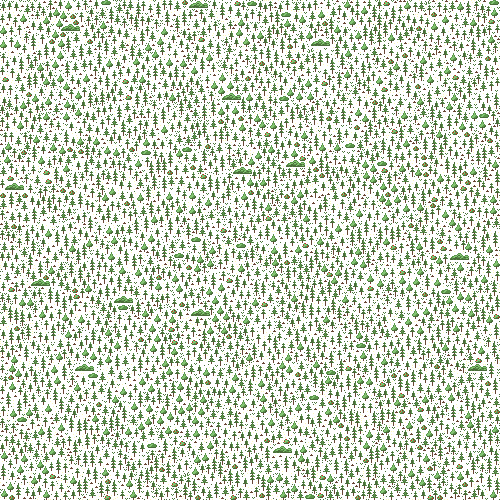
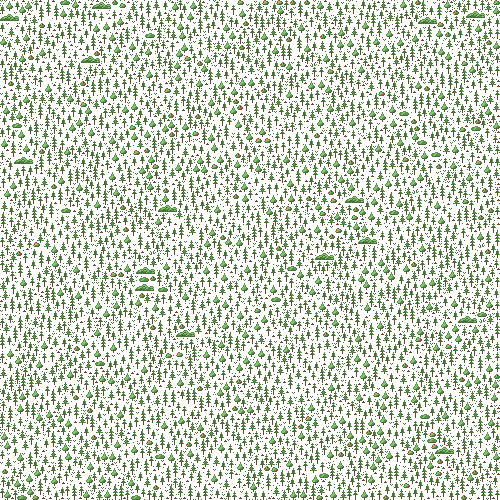
Alg update

diff --git a/generate_pattern.py b/generate_pattern.py
@@ -77,10 +77,13 @@ def create_occupancy_mask(width, height):
     return np.zeros((height, width), dtype=bool)
 
 
-def _get_alpha_mask(img):
-    """Extract alpha channel as a boolean NumPy array (True where opaque)."""
-    alpha = np.array(img.split()[-1])
-    return alpha > 0
+def _get_alpha_mask(img, _cache={}):
+    """Extract alpha channel as a boolean NumPy array (True where opaque). Cached per image."""
+    img_id = id(img)
+    if img_id not in _cache:
+        alpha = np.array(img.split()[-1])
+        _cache[img_id] = alpha > 0
+    return _cache[img_id]
 
 
 def mark_occupied(mask, x, y, img, spacing):
@@ -90,22 +93,27 @@ def mark_occupied(mask, x, y, img, spacing):
 
     alpha_mask = _get_alpha_mask(img)
 
-    # Create a structuring element for dilation (spacing buffer)
     if spacing > 0:
+        # Pad the alpha mask so dilation can expand beyond the image bounds
+        padded = np.pad(alpha_mask, spacing, mode='constant', constant_values=False)
         dilation_size = 2 * spacing + 1
         struct = np.ones((dilation_size, dilation_size), dtype=bool)
-        expanded = binary_dilation(alpha_mask, structure=struct)
+        expanded = binary_dilation(padded, structure=struct)
     else:
         expanded = alpha_mask
 
-    # Compute the region on the occupancy mask that this expanded image covers
-    eh, ew = expanded.shape
-    src_y0 = max(0, -y + spacing if spacing > 0 else 0)
-    src_x0 = max(0, -x + spacing if spacing > 0 else 0)
-    dst_y0 = max(0, y - spacing if spacing > 0 else y)
-    dst_x0 = max(0, x - spacing if spacing > 0 else x)
-    dst_y1 = min(mask_h, dst_y0 + eh - src_y0)
-    dst_x1 = min(mask_w, dst_x0 + ew - src_x0)
+    # The expanded mask's top-left corresponds to (x - spacing, y - spacing) on canvas
+    exp_h, exp_w = expanded.shape
+    origin_y = y - spacing if spacing > 0 else y
+    origin_x = x - spacing if spacing > 0 else x
+
+    # Clip to canvas bounds
+    src_y0 = max(0, -origin_y)
+    src_x0 = max(0, -origin_x)
+    dst_y0 = max(0, origin_y)
+    dst_x0 = max(0, origin_x)
+    dst_y1 = min(mask_h, origin_y + exp_h)
+    dst_x1 = min(mask_w, origin_x + exp_w)
     copy_h = dst_y1 - dst_y0
     copy_w = dst_x1 - dst_x0
 
@@ -129,19 +137,77 @@ def can_place_image(mask, x, y, img):
     return not np.any(region & alpha_mask)
 
 
-def try_place_image(canvas_w, canvas_h, img, mask):
+CELL_SIZE = 32  # coarse grid cell size in pixels
+
+
+def _build_coarse_grid(mask):
+    """Build a coarse grid indicating which cells have ANY free space."""
+    h, w = mask.shape
+    rows = (h + CELL_SIZE - 1) // CELL_SIZE
+    cols = (w + CELL_SIZE - 1) // CELL_SIZE
+    grid = np.ones((rows, cols), dtype=bool)  # True = has free space
+    for r in range(rows):
+        for c in range(cols):
+            block = mask[r * CELL_SIZE:(r + 1) * CELL_SIZE, c * CELL_SIZE:(c + 1) * CELL_SIZE]
+            if block.all():  # fully occupied
+                grid[r, c] = False
+    return grid
+
+
+def _update_coarse_grid(grid, mask, x, y, w, h, spacing):
+    """Update coarse grid cells affected by a newly placed image."""
+    r0 = max(0, (y - spacing) // CELL_SIZE)
+    c0 = max(0, (x - spacing) // CELL_SIZE)
+    r1 = min(grid.shape[0], (y + h + spacing) // CELL_SIZE + 1)
+    c1 = min(grid.shape[1], (x + w + spacing) // CELL_SIZE + 1)
+    mask_h, mask_w = mask.shape
+    for r in range(r0, r1):
+        for c in range(c0, c1):
+            block = mask[r * CELL_SIZE:min((r + 1) * CELL_SIZE, mask_h),
+                         c * CELL_SIZE:min((c + 1) * CELL_SIZE, mask_w)]
+            if block.all():
+                grid[r, c] = False
+
+
+def try_place_image(canvas_w, canvas_h, img, mask, coarse_grid):
     """
     Try to find a random position where the image's non-transparent pixels
-    don't overlap with already-occupied pixels. Returns (x, y) or None.
+    don't overlap with already-occupied pixels.
+    Uses coarse grid to focus searches on free areas.
+    Returns (x, y) or None.
     """
     img_w, img_h = img.size
-    max_attempts = 1000
-    for _ in range(max_attempts):
-        x = random.randint(0, max(0, canvas_w - img_w))
-        y = random.randint(0, max(0, canvas_h - img_h))
+    max_x = max(0, canvas_w - img_w)
+    max_y = max(0, canvas_h - img_h)
+    if max_x == 0 and max_y == 0:
+        if can_place_image(mask, 0, 0, img):
+            return (0, 0)
+        return None
 
-        if can_place_image(mask, x, y, img):
-            return (x, y)
+    # Find coarse-grid cells that have free space and could fit the image
+    free_cells = np.argwhere(coarse_grid)
+    if len(free_cells) == 0:
+        return None
+
+    # Batch: generate many candidate positions at once in free cells
+    batch_size = 64
+    max_rounds = 16  # 64 * 16 = 1024 total attempts max
+
+    for _ in range(max_rounds):
+        # Pick random free cells
+        cell_indices = np.random.randint(0, len(free_cells), size=batch_size)
+        cells = free_cells[cell_indices]
+
+        # Generate random offsets within each cell
+        offsets_y = np.random.randint(0, CELL_SIZE, size=batch_size)
+        offsets_x = np.random.randint(0, CELL_SIZE, size=batch_size)
+
+        xs = np.clip(cells[:, 1] * CELL_SIZE + offsets_x, 0, max_x).astype(int)
+        ys = np.clip(cells[:, 0] * CELL_SIZE + offsets_y, 0, max_y).astype(int)
+
+        for i in range(batch_size):
+            if can_place_image(mask, int(xs[i]), int(ys[i]), img):
+                return (int(xs[i]), int(ys[i]))
 
     return None
 
@@ -278,16 +344,80 @@ def _place_images(
     max_total_attempts = target_images * 10
     repeat_counts = {}
 
-    # Build a flat list of all images (with priority weight applied),
-    # shuffle it, and cycle through in order so every image is tried
-    # before any repeats.
+    # Build coarse grid for fast free-space lookup
+    coarse_grid = _build_coarse_grid(occupancy)
+
+    # Compute opaque pixel count for sorting (cached via _get_alpha_mask)
+    def _sort_key(item):
+        _, img = item
+        return int(np.count_nonzero(_get_alpha_mask(img)))
+
+    # --- Phase 1: Place every unique image at least once (largest first) ---
+    # This guarantees all groups get representation before priority weighting kicks in.
+    unique_pool = {}
+    for _, images in weighted_groups:
+        for fname, img in images:
+            if id(img) not in unique_pool:
+                unique_pool[id(img)] = (fname, img)
+    unique_list = sorted(unique_pool.values(), key=_sort_key, reverse=True)
+    print(f"  [{label}] Phase 1: placing {len(unique_list)} unique images (largest first)...")
+
+    for fname, img in unique_list:
+        if placed_count >= target_images or attempts >= max_total_attempts:
+            break
+        attempts += 1
+
+        # Progress bar
+        pct = placed_count / target_images
+        bar_len = 40
+        filled = int(bar_len * pct)
+        bar = "█" * filled + "░" * (bar_len - filled)
+        print(f"\r  [{label}] {bar} {pct:5.1%}  ({placed_count}/{target_images})", end="", flush=True)
+
+        pos = try_place_image(output_width, output_height, img, occupancy, coarse_grid)
+        if pos is not None:
+            x, y = pos
+            spacing = random.randint(spacing_min, spacing_max)
+            mark_occupied(occupancy, x, y, img, spacing)
+            _update_coarse_grid(coarse_grid, occupancy, x, y, img.size[0], img.size[1], spacing)
+            canvas.paste(img, (x, y), img)
+            placed_count += 1
+            repeat_counts[id(img)] = repeat_counts.get(id(img), 0) + 1
+
+    # --- Phase 2: Fill remaining capacity with priority-weighted pool (largest first) ---
+    # Build the full weighted pool, sorted by size with randomized tiers
     flat_pool = []
     for _, images in weighted_groups:
         for fname, img in images:
             flat_pool.append((fname, img))
-    # Deduplicate by image id to get unique entries, then apply priority
-    # weighting at the pool level (already handled by weighted_groups)
-    random.shuffle(flat_pool)
+
+    flat_pool.sort(key=_sort_key, reverse=True)
+
+    # Group by size tiers so images of similar size are shuffled randomly,
+    # while the overall order stays largest-first
+    def _build_tiered_pool(pool):
+        sizes = [_sort_key(item) for item in pool]
+        if not sizes:
+            return pool
+        max_s = max(sizes)
+        tier_s = max(1, max_s // 10)
+        result = []
+        cur_tier = []
+        cur_tid = sizes[0] // tier_s
+        for i, item in enumerate(pool):
+            tid = sizes[i] // tier_s
+            if tid != cur_tid:
+                random.shuffle(cur_tier)
+                result.extend(cur_tier)
+                cur_tier = [item]
+                cur_tid = tid
+            else:
+                cur_tier.append(item)
+        random.shuffle(cur_tier)
+        result.extend(cur_tier)
+        return result
+
+    flat_pool = _build_tiered_pool(flat_pool)
     pool_index = 0
 
     while placed_count < target_images and attempts < max_total_attempts:
@@ -300,12 +430,12 @@ def _place_images(
         bar = "█" * filled + "░" * (bar_len - filled)
         print(f"\r  [{label}] {bar} {pct:5.1%}  ({placed_count}/{target_images})", end="", flush=True)
 
-        # Cycle through shuffled pool; reshuffle when we wrap around
+        # Cycle through size-sorted pool; re-tier on wrap
         filename, img = flat_pool[pool_index]
         pool_index += 1
         if pool_index >= len(flat_pool):
             pool_index = 0
-            random.shuffle(flat_pool)
+            flat_pool = _build_tiered_pool(flat_pool)
 
         # Skip if this image has reached its repeat limit
         if max_repeats is not None and repeat_counts.get(id(img), 0) >= max_repeats:
@@ -318,12 +448,12 @@ def _place_images(
                 break
             continue
 
-        # Try to place using pixel-level collision
-        pos = try_place_image(output_width, output_height, img, occupancy)
+        # Try to place using pixel-level collision with coarse grid acceleration
+        pos = try_place_image(output_width, output_height, img, occupancy, coarse_grid)
         if pos is None:
             consecutive_failures += 1
             if consecutive_failures >= max_consecutive_failures:
-                print(f"  [{label}] Stopping: {max_consecutive_failures} consecutive failures (canvas full)")
+                print(f"\n  [{label}] Stopping: {max_consecutive_failures} consecutive failures (canvas full)")
                 break
             continue
 
@@ -332,6 +462,7 @@ def _place_images(
 
         spacing = random.randint(spacing_min, spacing_max)
         mark_occupied(occupancy, x, y, img, spacing)
+        _update_coarse_grid(coarse_grid, occupancy, x, y, img.size[0], img.size[1], spacing)
         canvas.paste(img, (x, y), img)
         placed_count += 1
 
